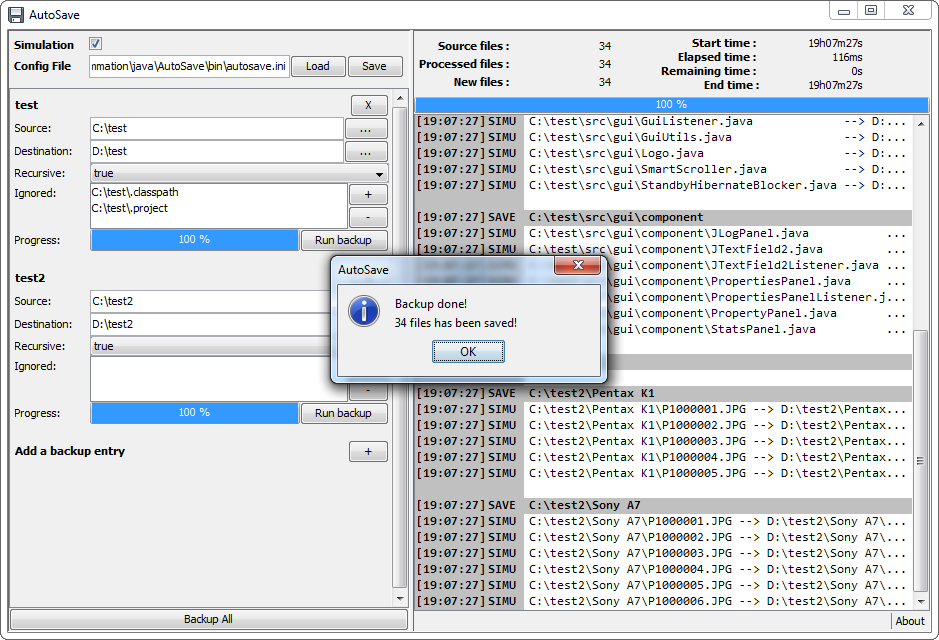
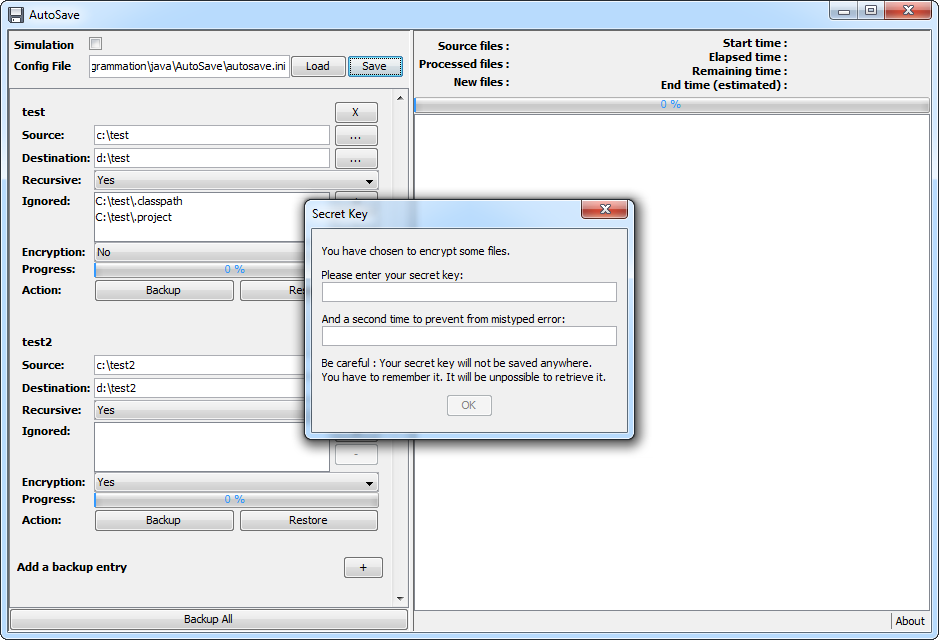
Update documentation for v3

diff --git a/docs/index.html b/docs/index.html
@@ -34,78 +34,104 @@
 		<div class='slideshow-images' style="height:725px;">
 			<div class="slide">
 				<img src="img/tutorial0.png" style="width:100%">
-				<div class="slide-text"><b>1 / 15</b><br>At first run, nothing is configured.</div>
+				<div class="slide-text"><b>1 / 18</b><br>At first run, nothing is configured.</div>
 			</div>
 		 
 			<div class="slide">
 				<img src="img/tutorial1.png" style="width:100%">
-				<div class="slide-text"><b>2 / 15</b><br>To configure a new folder or file to backup, use the <span style='color: red'>+</span> button.</div>
+				<div class="slide-text"><b>2 / 18</b><br>To configure a new folder or file to backup, use the <span style='color: red'>+</span> button.</div>
 			</div>
 		 
 			<div class="slide">
 				<img src="img/tutorial2.png" style="width:100%">
-				<div class="slide-text"><b>3 / 15</b><br>A new empty entry is created. The source textfield is <span style='background-color: #FCFE99'>yellow</span> as it's empty (or doest not point to an existing folder/file).</div>
+				<div class="slide-text"><b>3 / 18</b><br>A new empty entry is created. The source textfield is <span style='background-color: #FCFE99'>yellow</span> as it's empty (or doest not point to an existing folder/file).</div>
 			</div>
 		  
 			<div class="slide">
 				<img src="img/tutorial3.png" style="width:100%">
-				<div class="slide-text"><b>4 / 15</b><br>You have to define source folder (or file), destination folder (or file),<br>recursive or not (i.e. save sub folders), and if you want ignore some folders or files.</div>
+				<div class="slide-text"><b>4 / 18</b><br>You have to define source folder (or file), destination folder (or file), recursive or not (i.e. save sub folders),<br>if you want ignore some folders or files; and define if you want to encrypt your files (for each entry).</div>
 			</div>
 		 
 			<div class="slide">
 				<img src="img/tutorial4.png" style="width:100%">
-				<div class="slide-text"><b>5 / 15</b><br>You can add as many entries as you want.</div>
+				<div class="slide-text"><b>5 / 18</b><br>You can add as many entries as you want with different settings for each ones.</div>
 			</div>  
 		  
 			<div class="slide">
 				<img src="img/tutorial5.png" style="width:100%">
-				<div class="slide-text"><b>6 / 15</b><br>Don't forget to save your configuration. The save button will be <span style='color: red'>red</span> if any change.<br><i>Tips: When you close the application, if any change, a popup window will invite you to save your new configuration.</i></div>
+				<div class="slide-text"><b>6 / 18</b><br>Don't forget to save your configuration. The save button will be <span style='color: red'>red</span> if any change.<br><i>Tips: When you close the application, if any change, a popup window will invite you to save your new configuration.</i></div>
 			</div>
 		 
 			<div class="slide">
 				<img src="img/tutorial6.png" style="width:100%">
-				<div class="slide-text"><b>7 / 15</b><br>By default, the program will try to load <i>autosave.ini</i> configuration file in the same folder of the <i>AutoSave.jar</i> file.<br>Then it's hightly recommanded to save your configuration file as this.</div>
+				<div class="slide-text"><b>7 / 18</b><br>By default, the program will try to load <i>autosave.ini</i> configuration file in the same folder of the <i>AutoSave.jar</i> file.<br>Then it's hightly recommanded to save your configuration file as this.</div>
 			</div>
 		  
 			<div class="slide">
 				<img src="img/tutorial7.png" style="width:100%">
-				<div class="slide-text"><b>8 / 15</b><br>Once saved, the button will be back black, and the configuration file path is displayed in the textfield.</div>
+				<div class="slide-text"><b>8 / 18</b><br>Once saved, the button will be back black, and the configuration file path is displayed in the textfield.</div>
 			</div>
 		 
 			<div class="slide">
 				<img src="img/tutorial8.png" style="width:100%">
-				<div class="slide-text"><b>9 / 15</b><br>Before running a real backup, you can activate the <span style='color:red'>simulation</span> mode by checking the option in top left.</div>
+				<div class="slide-text"><b>9 / 18</b><br>Before running a real backup, you can activate the <span style='color:red'>simulation</span> mode by checking the option in top left.</div>
 			</div>  
 		  
 			<div class="slide">
 				<img src="img/tutorial9.png" style="width:100%">
-				<div class="slide-text"><b>10 / 15</b><br>You can run a backup (simulated or not), by clicking either on an individual <span style='color:#F77E22'>run backup</span> button (it will run the backup only for the related entry), either on the <span style='color:red'>backup all</span> button, to backup all entries.</div>
+				<div class="slide-text"><b>10 / 18</b><br>You can run a backup (simulated or not), by clicking either on an individual <span style='color:#F77E22'>backup</span> button (it will run the backup only for the related entry), either on the <span style='color:red'>backup all</span> button, to backup all entries.</div>
 			</div>
 		 
-			<div class="slide">
+		 	<div class="slide">
 				<img src="img/tutorial10.png" style="width:100%">
-				<div class="slide-text"><b>11/ 15</b><br>Once the backup (simulated or real) is done, it will popup the number of new file saved.<br>New files are the one with a modification date on your sources greater to the one in your destination.</div>
+				<div class="slide-text"><b>11 / 18</b><br>If in one (or more) of your entries you have selected encryption, it will ask you your secret key.<br>Your secret key will be not saved anywhere. So do not forget it!</div>
 			</div>
-		  
-			<div class="slide">
+		 
+		 	<div class="slide">
 				<img src="img/tutorial11.png" style="width:100%">
-				<div class="slide-text"><b>12/ 15</b><br>In top right part, some <span style='color:red'>statistics</span> are displayed. In the log part (main part at right), firstly is displayed the <span style='color:#F77E22'>number of files</span> per source directory. Then during the backup, if a file is <span style='color:#9F46A2'>skip</span>, it's displayed in <span style='color:grey'>grey</span>, and you can view that the copy is tag as <span style='color:green'>SIMU</span>.</div>
+				<div class="slide-text"><b>12 / 18</b><br>You must provide 2 times your secret key, to be sure you're not doing a typing error.</div>
 			</div>
 		 
 			<div class="slide">
 				<img src="img/tutorial12.png" style="width:100%">
-				<div class="slide-text"><b>13/ 15</b><br>Once you have verified in the simulated log that the source and destination are correct,<br>you can uncheck the <span style='color:#F77E22'>simulation</span> option, and run the real backup with the <span style='color:red'>backup all</span> button.</div>
-			</div>  
-		  
+				<div class="slide-text"><b>13 / 18</b><br>Once the backup (simulated or real) is done, it will popup the number of new file saved.<br>New files are the one with a modification date on your sources greater to the one in your destination.</div>
+			</div>
+			
 			<div class="slide">
 				<img src="img/tutorial13.png" style="width:100%">
-				<div class="slide-text"><b>14/ 15</b><br>During the backup, you can view in <span style='color:red'>statistics</span> panel the estimated end time<br>and in the log part that the copy is now tag as <span style='color:#F77E22'>COPY</span> (the copy is really done).</div>
+				<div class="slide-text"><b>14 / 18</b><br>In top right part, some <span style='color:red'>statistics</span> are displayed. In the log part (main part at right), firstly is displayed the <span style='color:#F77E22'>number of files</span> per source directory. Then during the backup, if a file is <span style='color:#9F46A2'>skip</span>, it's displayed in <span style='color:grey'>grey</span>, and you can view that the copy is tag as <span style='color:green'>SIMU</span>.</div>
 			</div>
 		 
 			<div class="slide">
 				<img src="img/tutorial14.png" style="width:100%">
-				<div class="slide-text"><b>15 / 15</b><br>Obviously in this test to create these screenshot, when I change one file in my source (edit text file and save),<br>and run again the backup, the software found 1 new file to save!</div>
-			</div>    
+				<div class="slide-text"><b>15 / 18</b><br>You can expland left or right panel by drag & droping the divider between them.<br>If you have choosen to encrypt some entries, it will be <span style='color:#F77E22'>display</span> in log, and you can view that the filename itself is <span style='color:#9F46A2'>crypted</span>.</div>
+			</div>  
+			
+			<div class="slide">
+				<img src="img/tutorial15.png" style="width:100%">
+				<div class="slide-text"><b>16 / 18</b><br>Once you have verified in the simulated log that the source and destination are correct,<br>you can uncheck the <span style='color:#F77E22'>simulation</span> option, and run the real backup with the <span style='color:red'>backup all</span> button.</div>
+			</div>  
+			
+			<div class="slide">
+				<img src="img/tutorial16.png" style="width:100%">
+				<div class="slide-text"><b>17 / 18</b><br>During the backup, you can view in <span style='color:red'>statistics</span> panel the estimated end time<br>and in the log part that the copy is now tag as <span style='color:#F77E22'>COPY</span> (the copy is really done).</div>
+			</div>
+		 
+			<div class="slide">
+				<img src="img/tutorial17.png" style="width:100%">
+				<div class="slide-text"><b>18 / 18</b><br>Obviously in this test to create these screenshot, when I change one file in my source (edit text file and save),<br>and run again the backup, the software found 1 new file to save!</div>
+			</div> 
+			
+			<div class="slide">
+				<img src="img/tutorial18.png" style="width:100%">
+				<div class="slide-text"><b>19 / 18</b><br>You can restore lost files from backup by clicking on ones of the <span style='color:red'>restore</span> button.<br>It will copy back missing files in source, or the ones with a modification date lower than the ones in the backup.</div>
+			</div>   
+			
+			<div class="slide">
+				<img src="img/tutorial19.png" style="width:100%">
+				<div class="slide-text"><b>20 / 18</b><br>To create this screenshot, I've deleted one file from my source folder.<br>When restoring, the software asked me for my secret key as it used encryption; and it had decrypted the file (content and name).</div>
+			</div> 
+			
 		</div>
 	</div>
 
@@ -153,13 +179,27 @@
 	<p>Some more explanation <a href='https://answers.microsoft.com/en-us/windows/forum/windows_7-files/my-documents-contains-shortcuts-to-my-music-my/1df82564-e079-4844-8061-4219793d468e'>here</a>.
 	</p>
 	
-	<h2>File Encryption?</h2>
-	<p>For the moment (release 2.0) Autosave does not support file encryption.</p>
-	<p>You can use an <a href='https://en.wikipedia.org/wiki/Hardware-based_full_disk_encryption'>hardware encrypted</a> drive which are now not really expensive (<i>see the Western Digital <a href='https://www.wdc.com/products/portable-storage/my-passport.html'>My Passport</a> (<a href='https://www.wdc.com/products/portable-storage/my-passport-for-mac-new.html'>for Mac</a>)</i>)</p>
-	<p>In the next release, Autosave will do it via <a href='https://en.wikipedia.org/wiki/Advanced_Encryption_Standard'>AES</a> encryption (which is fast and secure) in <a href='https://en.wikipedia.org/wiki/Galois/Counter_Mode'>GCM</a> mode. These both mixed together result in an <a href='https://en.wikipedia.org/wiki/Authenticated_encryption'>authenticated encryption</a> algorithm designed to provide both data authenticity (integrity) and confidentiality.</p>
+	<h2>File Encryption</h2>
+	
+	<p>Autosave can use encryption to crypt (and decrypt) both file content and filename.</p>
+	
+	<p>It does it via <a href='https://en.wikipedia.org/wiki/Advanced_Encryption_Standard'>AES</a> encryption method (which is fast and secure) in <a href='https://en.wikipedia.org/wiki/Galois/Counter_Mode'>GCM</a> mode. These both mixed together result in an <a href='https://en.wikipedia.org/wiki/Authenticated_encryption'>authenticated encryption</a> algorithm designed to provide both data authenticity (integrity) and confidentiality.</p>
+	
+	<p>But as it's software encryption, it can be slow. Another solution to crypted your files is to used a <a href='https://en.wikipedia.org/wiki/Hardware-based_full_disk_encryption'>hardware encrypted</a> drive which are now not really expensive (<i>see the Western Digital <a href='https://www.wdc.com/products/portable-storage/my-passport.html'>My Passport</a> (<a href='https://www.wdc.com/products/portable-storage/my-passport-for-mac-new.html'>for Mac</a>)</i>).</p>
 	
 	
+	<h2>External libraries</h2>
 	
+	<p>Autosave used some external libraries:
+	<ul>
+		<li style='margin-bottom:15px'><a href='https://www.bouncycastle.org/'>Bouncing Castle</a><br>Crypotography library faster than native java (jre) one.</li>
+	
+		<li style='margin-bottom:15px'><a href='https://github.com/diafygi/Offset248'>Offset248</a><br>To save encrypted filename.</li>
+		
+		<li style='margin-bottom:15px'><a href='http://www.miglayout.com'>MigLayout</a><br>A <a href='https://en.wikipedia.org/wiki/Layout_manager'>layout manager</a> library.</li>
+		
+		<li style='margin-bottom:15px'><a href='https://github.com/java-native-access/jna'>Java Native Access (JNA)</a><br>To be able to stop the operating system standby during copy.</li>
+	</ul></p>
 
 <script>
 	writePreFooter();
